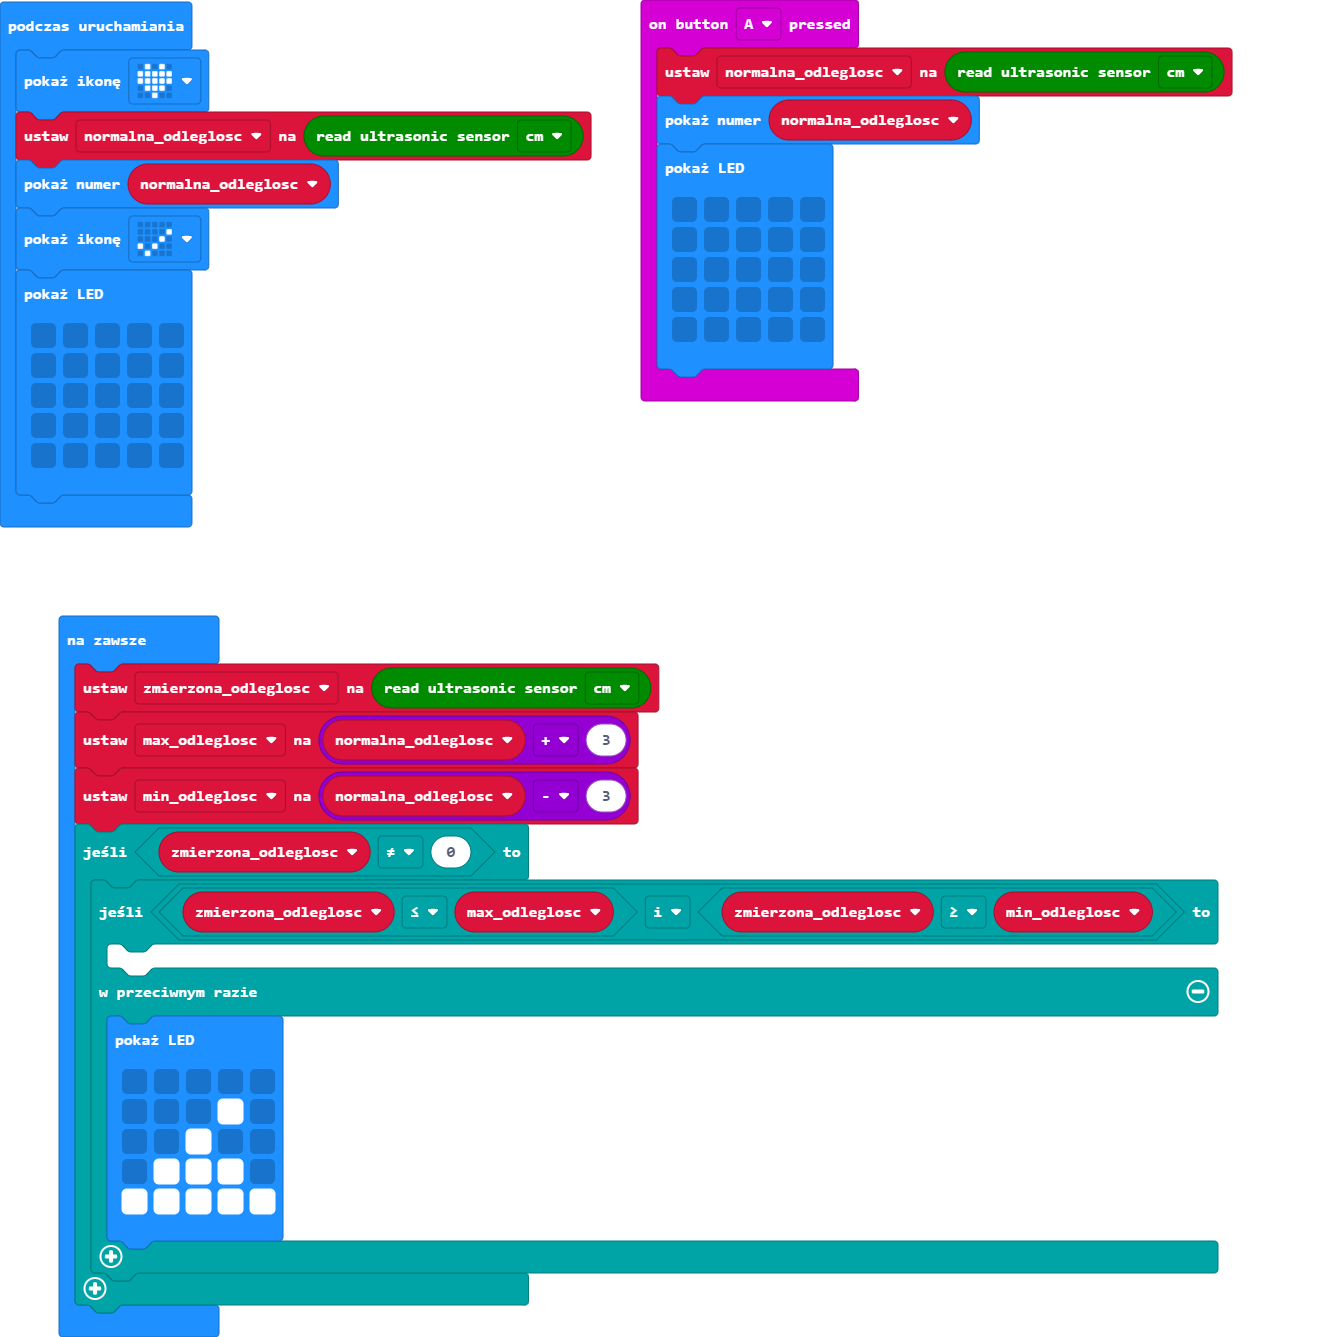
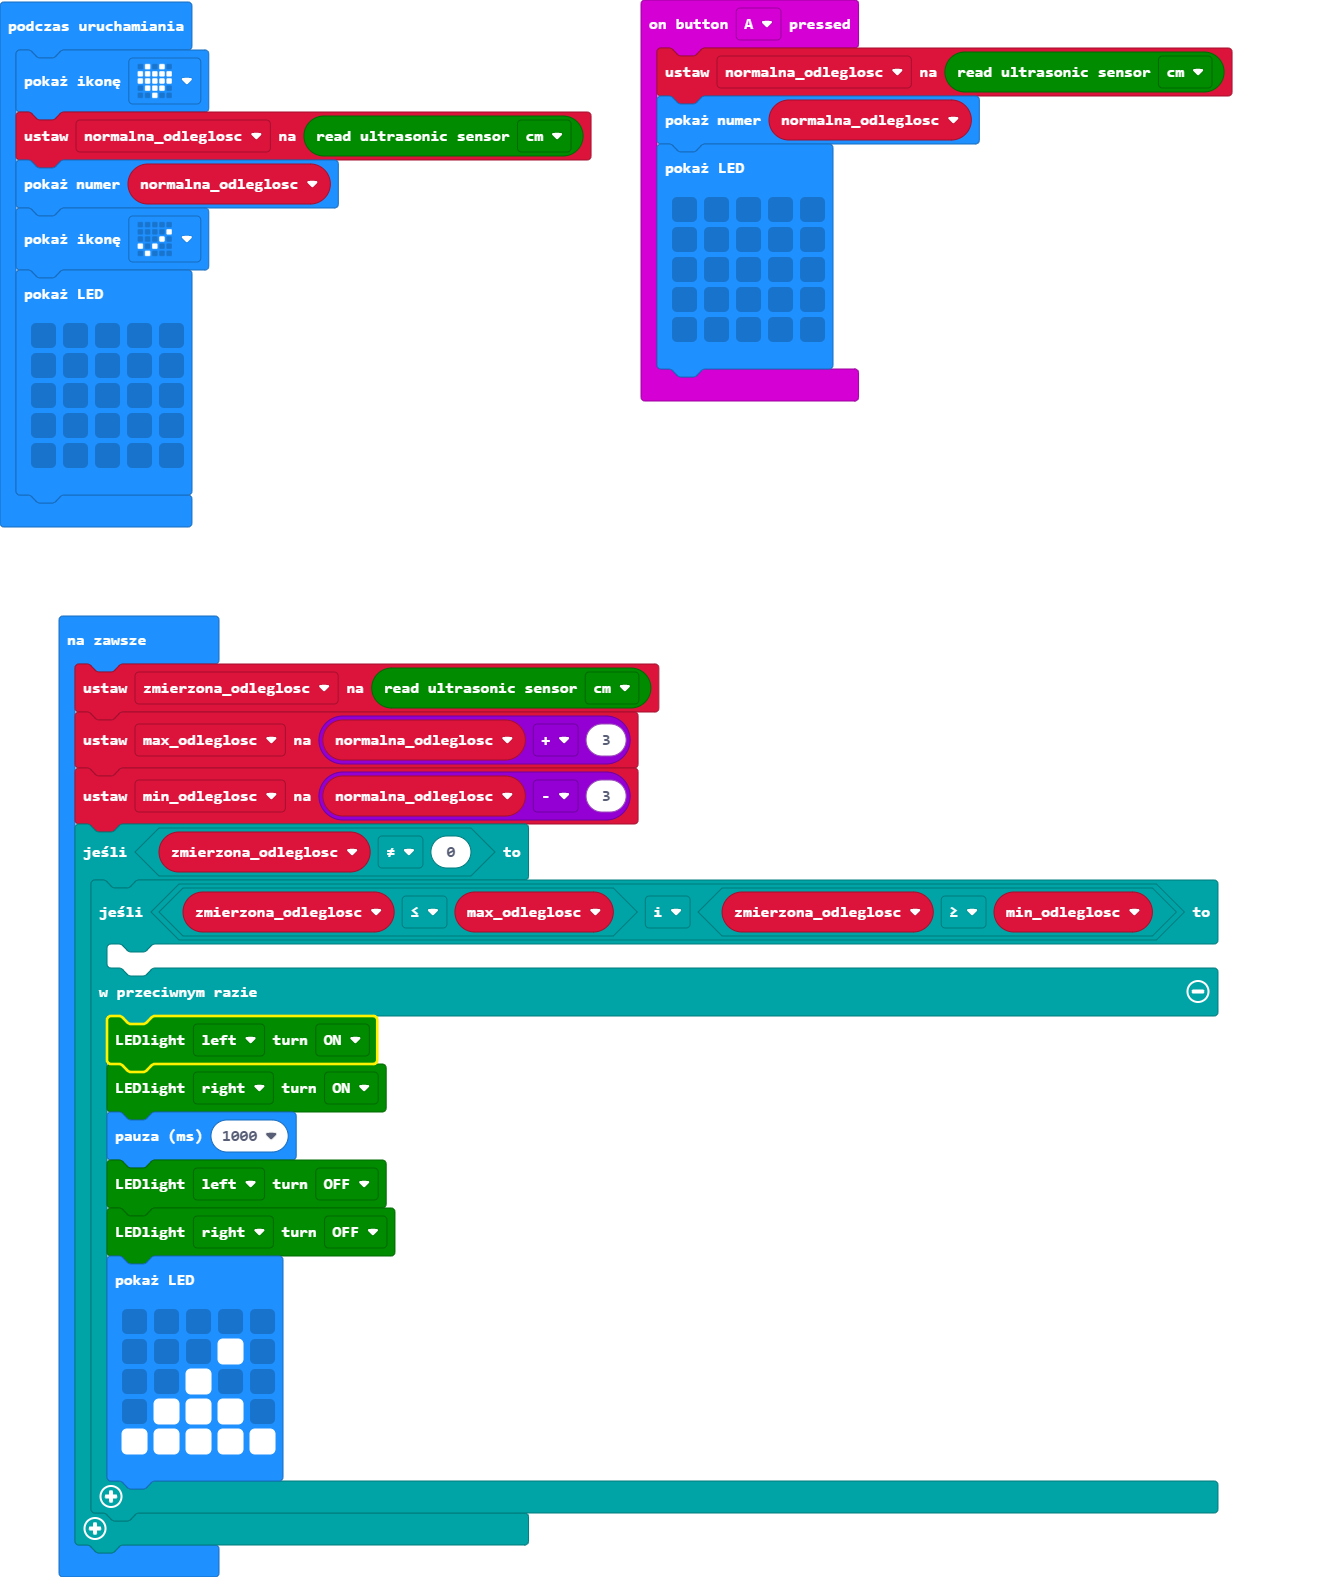
Dodano mrugnięcie diodami

diff --git a/main.ts b/main.ts
@@ -32,6 +32,11 @@ basic.forever(function () {
         if (zmierzona_odleglosc <= max_odleglosc && zmierzona_odleglosc >= min_odleglosc) {
         	
         } else {
+            maqueen.writeLED(maqueen.LED.LEDLeft, maqueen.LEDswitch.turnOn)
+            maqueen.writeLED(maqueen.LED.LEDRight, maqueen.LEDswitch.turnOn)
+            basic.pause(1000)
+            maqueen.writeLED(maqueen.LED.LEDLeft, maqueen.LEDswitch.turnOff)
+            maqueen.writeLED(maqueen.LED.LEDRight, maqueen.LEDswitch.turnOff)
             basic.showLeds(`
                 . . . . .
                 . . . # .
